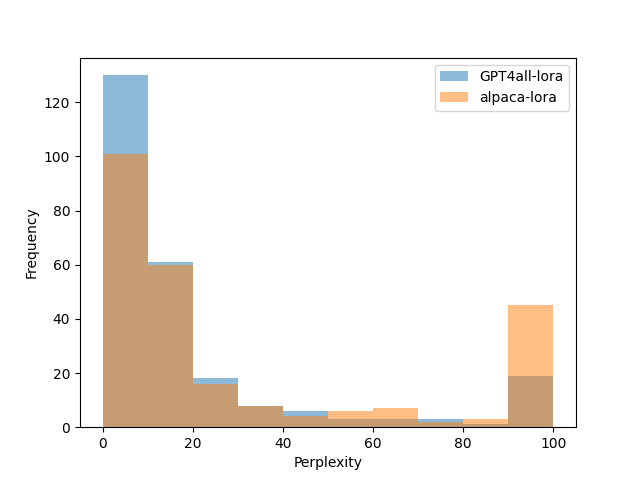
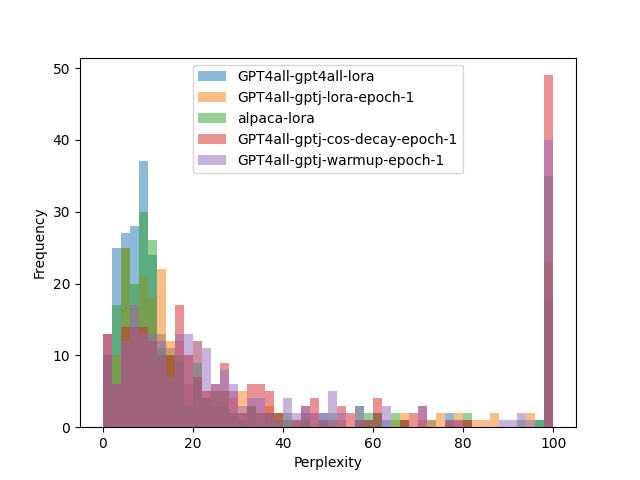
feat: evals on new gptj models

diff --git a/eval_self_instruct.py b/eval_self_instruct.py
@@ -49,28 +49,6 @@ def eval_example(model, tokenizer, example, config):
     input = tokenizer(prompt, return_tensors="pt")
     input = {k: v.to(model.device) for k, v in input.items()}
 
-    continuations = []
-    tokenized_continuations = []
-    trajectories = []
-    for i in range(1):
-        with torch.no_grad():
-            outputs = model.generate(input_ids=input['input_ids'],
-                                     max_new_tokens=config["max_new_tokens"],
-                                     min_new_tokens=5,
-                                     temperature=config["temperature"],
-                                     repetition_penalty=1.0,
-                                     do_sample=True)
-            decoded = tokenizer.decode(outputs[0], skip_special_tokens=True).strip()
-
-            y = model(input_ids=outputs)
-        trajectory = y.hidden_states[0].detach().cpu().numpy()[0]
-        trajectory = trajectory / np.linalg.norm(trajectory, axis=1, keepdims=True)
-        trajectory = np.cumsum(trajectory, axis=0) / np.arange(1, trajectory.shape[0]+1).reshape(-1, 1)
-
-        trajectories.append(trajectory)
-        continuations.append(decoded)
-        tokenized_continuations.append(tokenizer.tokenize(decoded))
-
     #compute the ground truth perplexity
     gt_input = tokenizer(gt, return_tensors="pt")
     gt_input = {k: v.to(model.device) for k, v in gt_input.items()}
@@ -101,30 +79,23 @@ def eval_example(model, tokenizer, example, config):
 
     print(prompt)
     print(80*'-')
-    for continuation in continuations:
-        print(continuation)
-        print(80*'-')
+   
 
-    return ppl, trajectories, continuations, tokenized_continuations
+    return ppl
 
 def do_eval(config):
     eval_data = read_jsonl_file('eval_data/user_oriented_instructions.jsonl')
     model, tokenizer = setup_model(config)
-    all_trajectories = []
     all_perplexities = []
-    all_continuations = []
-    all_tokenized_continuations = []
     for example in tqdm(eval_data):
-        gt_perplexity, trajectories, continuations, tokenized_continuations = eval_example(model, tokenizer, example, config)
-        all_trajectories.append(trajectories)
+        gt_perplexity = eval_example(model, tokenizer, example, config)
         all_perplexities.append(gt_perplexity)
-        all_continuations.append(continuations)
 
-    with open('eval_data/eval__model-{}__lora-{}.pkl'.format(config['model_name'].replace('/', '_'), config['lora_path'].replace('/', '_')), 'wb') as f:
-        r = {'trajectories': all_trajectories,
-             'perplexities': all_perplexities,
-             'continuations': all_continuations,
-             'tokenized_continuations': all_tokenized_continuations}
+        
+    name = f"eval_data/eval__model-{config['model_name'].replace('/', '_')}{'__lora-' + config['lora_path'].replace('/', '_') if config['lora'] else ''}.pkl"
+
+    with open(name, 'wb') as f:
+        r = {'perplexities': all_perplexities}
         pickle.dump(r, f)
 
 

diff --git a/eval_figures.py b/eval_figures.py
@@ -6,18 +6,20 @@ from matplotlib import pyplot as plt
 plt.figure()
 for fpath in glob.glob('./eval_data/*.pkl'):
     parts = fpath.split('__')
-    model_name = parts[1].replace('model-', '').replace('.pkl', '')
-    lora_name = parts[2].replace('lora-', '').replace('.pkl', '')
+    model_name = "-".join(fpath.replace(".pkl", "").split("_")[2:])
     with open(fpath, 'rb') as f:
         data = pickle.load(f)
         perplexities = data['perplexities']
         perplexities = np.nan_to_num(perplexities, 100)
         perplexities = np.clip(perplexities, 0, 100)
-        if 'nomic' in fpath:
-            label = 'GPT4all-lora'
+        if 'alpaca' not in fpath:
+            identifier = model_name = "-".join(fpath.replace(".pkl", "").split("eval__model-")[1:]) 
+            label = 'GPT4all-'
+            label += identifier
+            
         else:
             label = 'alpaca-lora'
-        plt.hist(perplexities, label=label, alpha=.5)
+        plt.hist(perplexities, label=label, alpha=.5, bins=50)
 
 plt.xlabel('Perplexity')
 plt.ylabel('Frequency')

diff --git a/GPTJ.md b/GPTJ.md
@@ -1,0 +1,17 @@
+# Inference on Training Data
+
+
+## Run Inference
+
+```bash
+torchrun --master_port=29085 --nproc-per-node 8 inference.py --config=configs/inference/gptj.yaml
+```
+
+
+## Visualizations
+
+```bash
+python build_map.py
+```
+ 
+will build a map in `Atlas`, one using the internal clustering algorithm provided by Nomic and one using the embeddings generated by the finetuned model.
